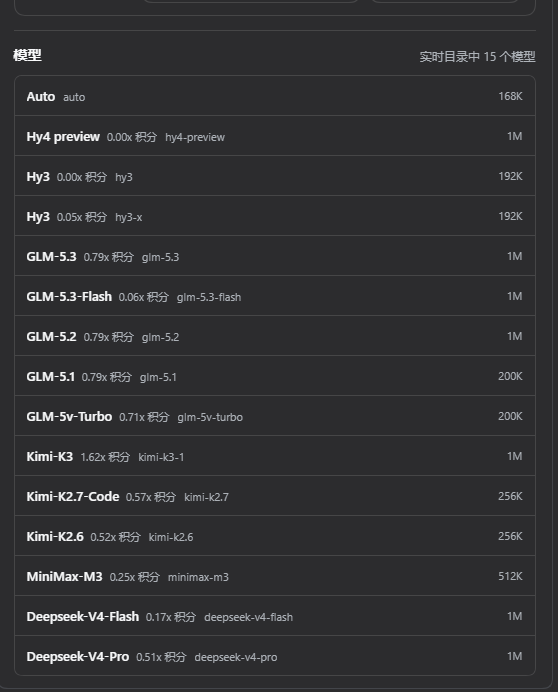
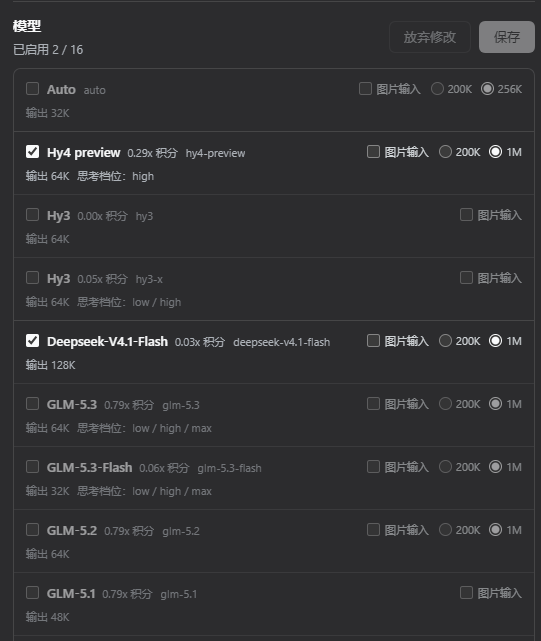
docs: refresh the card and picker screenshots
Both shots predated the region split and model management, so they showed an
older card and a single picker group.

- Replace assets/settings-card.png with the current card (region tabs, credit
  panels with totals, per-account check-in, model management rows).
- Replace assets/model-picker.png with the current picker, where the domestic
  and international suppliers appear as two separate groups.
- Update both captions (zh and en) to describe what the shots now show, and
  note the two supplier groups in the picker caption.

diff --git a/README.en.md b/README.en.md
@@ -15,11 +15,11 @@ Merge **every WorkBuddy account** you have ever signed into on this machine into
 
 **Settings card (Settings → Plugins → DSH WorkBuddy XD Pool)**
 
-![WorkBuddy pool settings card: pool health, per-account panels, credit packages, totals](assets/settings-card.png)
+![WorkBuddy pool settings card: domestic/international tab strip, pool health, per-account panels, credit packages and totals, per-account daily check-in, and model management (enable, image input, context window)](assets/settings-card.png)
 
-**Model picker (rate multiplier baked into model.name; DSH 0.1.2 composer only reads name)**
+**Model picker (domestic and international appear as two separate supplier groups; the rate multiplier is baked into model.name because the DSH 0.1.2 composer only reads name)**
 
-![Model picker shows the rate and promo badge next to each model name](assets/model-picker.png)
+![Model picker: the domestic and international suppliers each form their own group, with the credit rate and promo badge shown next to every model name](assets/model-picker.png)
 
 **Domestic / international dual suppliers (each with its own accounts, credits and models, usable at the same time)**
 

diff --git a/README.md b/README.md
@@ -15,11 +15,11 @@
 
 **插件配置卡片（设置 → 插件 → DSH WorkBuddy XD Pool）**
 
-![WorkBuddy 池设置卡片：池健康状态、账号面板、积分包、合计](assets/settings-card.png)
+![WorkBuddy 池设置卡片：国内版 / 国际版切换栏、池健康状态、账号面板、积分包与合计、每账号每日签到、模型管理（启用勾选 / 图片输入 / 上下文窗口）](assets/settings-card.png)
 
-**模型选择器（倍率直接拼进 model.name：DSH 0.1.2 composer 只读 name）**
+**模型选择器（国内版 / 国际版 两个独立供应商分组；倍率直接拼进 model.name：DSH 0.1.2 composer 只读 name）**
 
-![模型选择器每个模型名后显示倍率与促销标签](assets/model-picker.png)
+![模型选择器：国内版与国际版各占一个分组，每个模型名后显示积分倍率与促销标签](assets/model-picker.png)
 
 **国内版 / 国际版 双供应商（各自独立账号、积分与模型，可同时使用）**
 
